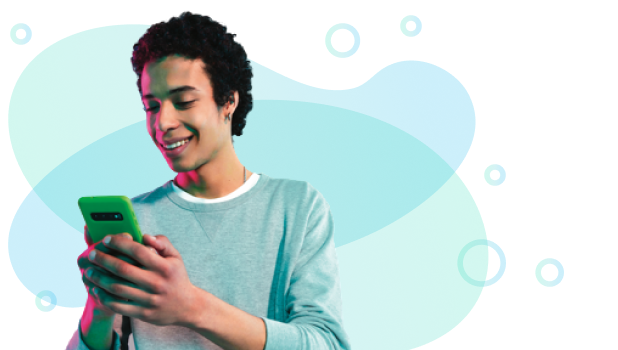
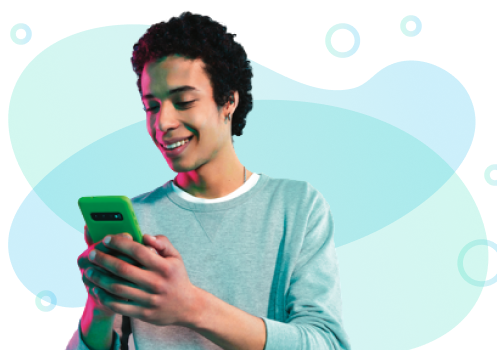
styles changes

diff --git a/src/App.css b/src/App.css
@@ -19,6 +19,7 @@
   max-width: 400px;
   width: 100%;
   transition: all 0.3s ease-in-out;
+  z-index: 99;
 }
 
 .box:hover {
@@ -37,12 +38,14 @@
 }
 
 .tipo {
-  width: 500px; /* Ajusta el tamaño de la imagen según sea necesario */
+  width: 450px; /* Ajusta el tamaño de la imagen según sea necesario */
+  max-width: 30%;
+  min-width: 300px;
   height: auto;
-  margin-bottom: 10px;
+  /* margin-bottom: 10px; */
   position: absolute;
   border-radius: 10px;
-  bottom: 10px;
+  bottom: 0px;
   right: 0px;
 }
 .code-inputs {
